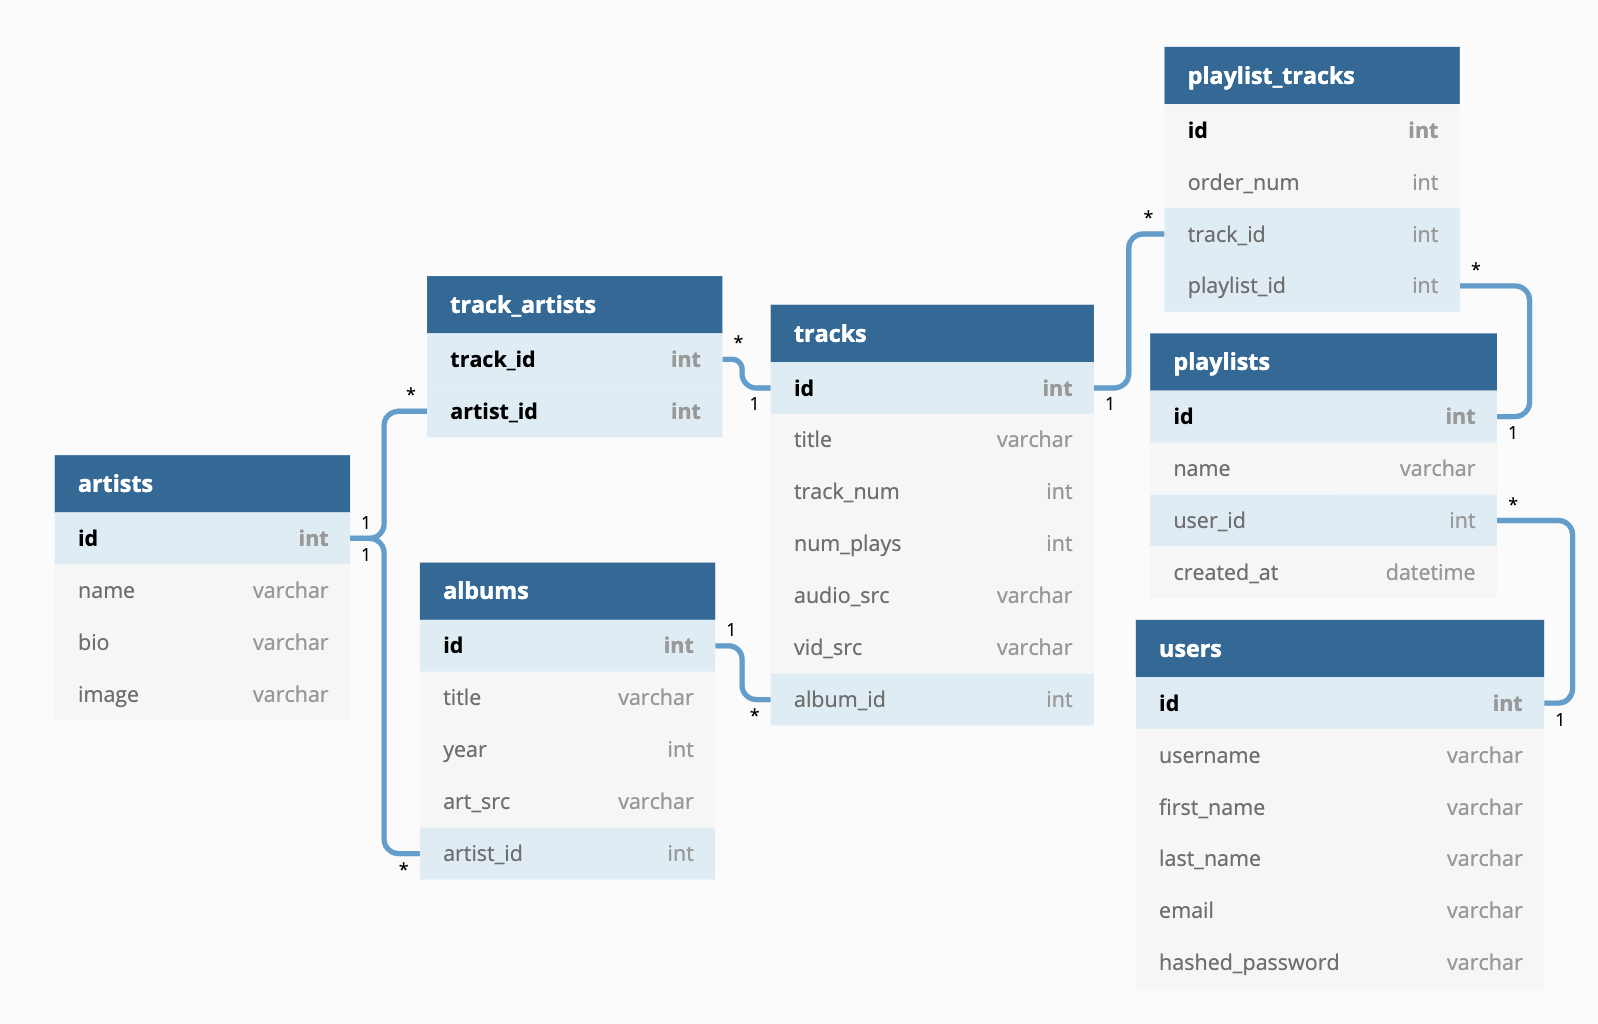
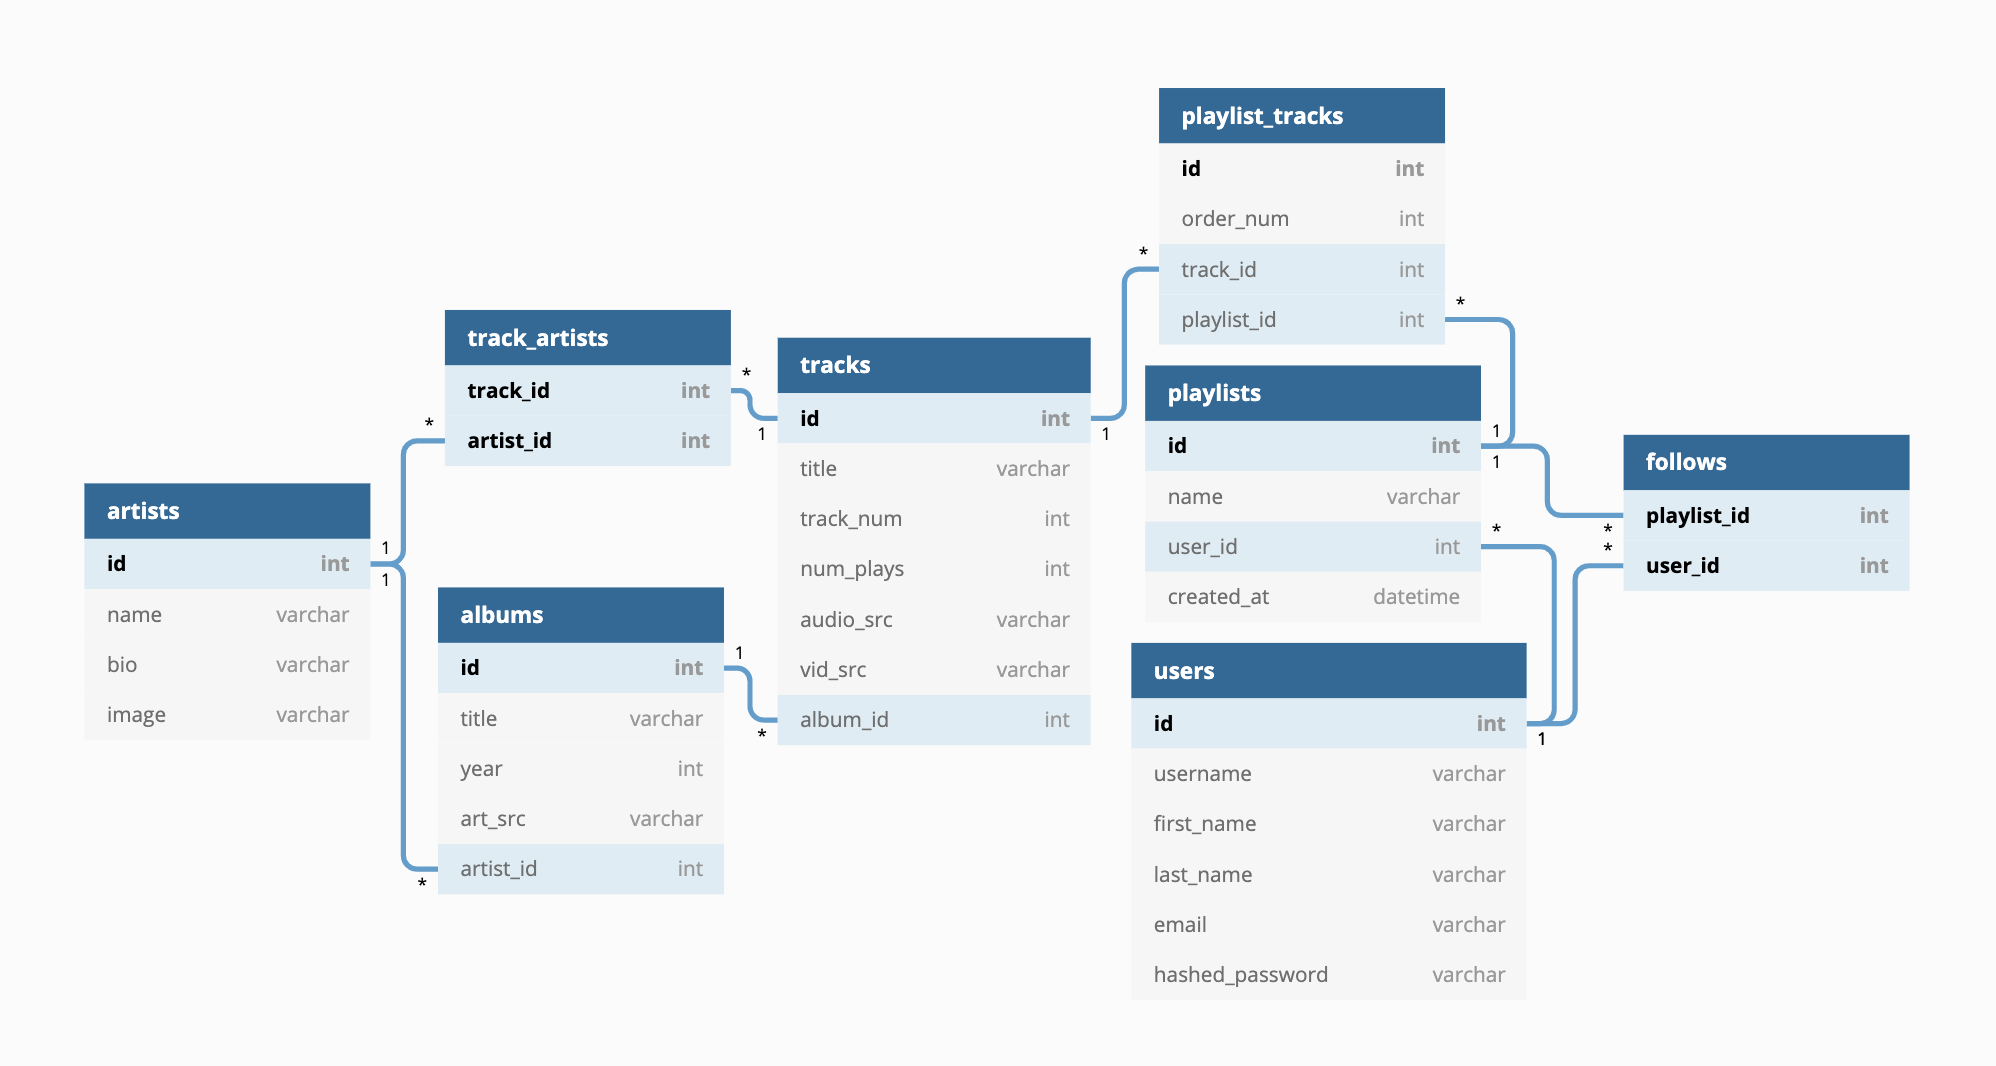
added follows table and remigrated db

diff --git a/app/seeds/tracks_seed2.py b/app/seeds/tracks_seed2.py
@@ -52,13 +52,43 @@ def tracks_seed2():
                album_id=7,
                artists=[Artist.query.get(8)])
 
+  a3435 = Track(title="34+35",
+                track_num=2,
+                num_plays=234505,
+                audio_src="https://vjdj.s3.amazonaws.com/music/ariana-grande/Ariana+Grande+-+34%2B35+(official+video)+(320+kbps).mp3",
+                vid_src="https://www.youtube.com/embed/B6_iQvaIjXw",
+                length="3:40",
+                album_id=8,
+                artists=[Artist.query.get(4)])
+
+  positions = Track(title="positions",
+                    track_num=12,
+                    num_plays=50235,
+                    audio_src="https://vjdj.s3.amazonaws.com/music/ariana-grande/Ariana+Grande+-+positions+(official+video)+(320+kbps).mp3",
+                    vid_src="https://www.youtube.com/embed/tcYodQoapMg",
+                    length="2:57",
+                    album_id=8,
+                    artists=[Artist.query.get(4)])
+
+  break_up = Track(title="break up with your girlfriend, i'm bored",
+                   track_num=12,
+                   num_plays=85783,
+                   audio_src="https://vjdj.s3.amazonaws.com/music/ariana-grande/Ariana+Grande+-+break+up+with+your+girlfriend%2C+i'm+bored+(Official+Video)+(320+kbps).mp3",
+                   vid_src="https://www.youtube.com/embed/LH4Y1ZUUx2g",
+                   length="3:24",
+                   album_id=9,
+                   artists=[Artist.query.get(4)])
+
 
   db.session.add(good_as_hell)
   db.session.add(juice)
   db.session.add(blinding_lights)
   db.session.add(prisoner)
   db.session.add(midnight_sky)
+  db.session.add(a3435)
+  db.session.add(positions)
   db.session.add(up)
+  db.session.add(break_up)
   db.session.commit()
 
 def undo_tracks_seed2():

diff --git a/migrations/versions/20210406_115441_initial_migration.py b/migrations/versions/20210406_115441_initial_migration.py
@@ -1,8 +1,8 @@
-"""remigrating
+"""initial migration
 
-Revision ID: 293498c9a5c4
+Revision ID: f0deea88fc7d
 Revises: 
-Create Date: 2021-04-02 11:36:13.597934
+Create Date: 2021-04-06 11:54:41.039994
 
 """
 from alembic import op
@@ -10,7 +10,7 @@ import sqlalchemy as sa
 
 
 # revision identifiers, used by Alembic.
-revision = '293498c9a5c4'
+revision = 'f0deea88fc7d'
 down_revision = None
 branch_labels = None
 depends_on = None
@@ -53,6 +53,13 @@ def upgrade():
     sa.ForeignKeyConstraint(['user_id'], ['users.id'], ),
     sa.PrimaryKeyConstraint('id')
     )
+    op.create_table('follows',
+    sa.Column('user_id', sa.Integer(), nullable=False),
+    sa.Column('playlist_id', sa.Integer(), nullable=False),
+    sa.ForeignKeyConstraint(['playlist_id'], ['playlists.id'], ),
+    sa.ForeignKeyConstraint(['user_id'], ['users.id'], ),
+    sa.PrimaryKeyConstraint('user_id', 'playlist_id')
+    )
     op.create_table('tracks',
     sa.Column('id', sa.Integer(), nullable=False),
     sa.Column('title', sa.String(), nullable=False),
@@ -89,6 +96,7 @@ def downgrade():
     op.drop_table('track_artists')
     op.drop_table('playlist_tracks')
     op.drop_table('tracks')
+    op.drop_table('follows')
     op.drop_table('playlists')
     op.drop_table('albums')
     op.drop_table('users')

diff --git a/app/seeds/playlist_tracks_seed2.py b/app/seeds/playlist_tracks_seed2.py
@@ -4,7 +4,7 @@ from app.models import db, PlaylistTrack
 def playlist_tracks_seed2():
   track1 = PlaylistTrack(order_num=1, track_id=13, playlist_id=2)
   track2 = PlaylistTrack(order_num=2, track_id=9, playlist_id=2)
-  track3 = PlaylistTrack(order_num=3, track_id=3, playlist_id=2)
+  track3 = PlaylistTrack(order_num=3, track_id=14, playlist_id=2)
   track4 = PlaylistTrack(order_num=4, track_id=5, playlist_id=2)
   track5 = PlaylistTrack(order_num=5, track_id=10, playlist_id=2)
   track6 = PlaylistTrack(order_num=6, track_id=7, playlist_id=2)
@@ -13,6 +13,11 @@ def playlist_tracks_seed2():
   track8 = PlaylistTrack(order_num=1, track_id=11, playlist_id=3)
   track9 = PlaylistTrack(order_num=2, track_id=2, playlist_id=3)
   track10 = PlaylistTrack(order_num=3, track_id=8, playlist_id=3)
+
+  track11 = PlaylistTrack(order_num=1, track_id=3, playlist_id=4)
+  track12 = PlaylistTrack(order_num=2, track_id=5, playlist_id=4)
+  track13 = PlaylistTrack(order_num=3, track_id=14, playlist_id=4)
+  track14 = PlaylistTrack(order_num=4, track_id=9, playlist_id=4)
 
   db.session.add(track1)
   db.session.add(track2)

diff --git a/app/seeds/playlists_seed2.py b/app/seeds/playlists_seed2.py
@@ -1,18 +1,26 @@
-from app.models import db, Track, Playlist
+from app.models import db, Track, Playlist, User
 from datetime import datetime
 
 
 def playlists_seed2():
   pl2 = Playlist(name="Let's Partayyy",
                  user_id=1,
-                 created_at=(datetime.now()))
+                 created_at=(datetime.now()),
+                 user_follows=[User.query.get(2), User.query.get(3), User.query.get(4)])
 
   pl3 = Playlist(name="She's a VJDJ",
                  user_id=1,
-                 created_at=(datetime.now()))
+                 created_at=(datetime.now()),
+                 user_follows=[User.query.get(5), User.query.get(6)])
+
+  pl4 = Playlist(name="Yas Qween",
+                 user_id=2,
+                 created_at=(datetime.now()),
+                 user_follows=[User.query.get(1), User.query.get(3), User.query.get(8)])
 
   db.session.add(pl2)
   db.session.add(pl3)
+  db.session.add(pl4)
   db.session.commit()
 
 

diff --git a/app/models/user.py b/app/models/user.py
@@ -2,6 +2,13 @@ from .db import db
 from werkzeug.security import generate_password_hash, check_password_hash
 from flask_login import UserMixin
 
+follows = db.Table(
+  'follows',
+  db.Model.metadata,
+  db.Column('user_id', db.Integer, db.ForeignKey('users.id'), primary_key=True),
+  db.Column('playlist_id', db.Integer, db.ForeignKey('playlists.id'), primary_key=True),
+)
+
 class User(db.Model, UserMixin):
   __tablename__ = 'users'
 
@@ -13,6 +20,7 @@ class User(db.Model, UserMixin):
   hashed_password = db.Column(db.String(255), nullable = False)
 
   playlists = db.relationship('Playlist', back_populates='user')
+  pl_follows = db.relationship('Playlist', secondary=follows, back_populates='user_follows')
 
   @property
   def password(self):

diff --git a/app/seeds/albums_seed2.py b/app/seeds/albums_seed2.py
@@ -18,11 +18,21 @@ def albums_seed2():
                      year=2021,
                      art_src="/static/album-art/up.jpeg",
                      artist_id=8)
+  positions = Album(title="positions",
+                    year=2020,
+                    art_src="/static/album-art/positions.png",
+                    artist_id=4)
+  thankunext = Album(title="thank u, next",
+                     year=2019,
+                     art_src="/static/album-art/thank-u-next.jpeg",
+                     artist_id=4)
 
   db.session.add(cuz_i_love_you)
   db.session.add(after_hours)
   db.session.add(plastic_hearts)
   db.session.add(up)
+  db.session.add(positions)
+  db.session.add(thankunext)
   db.session.commit()
 
 def undo_albums_seed2():

diff --git a/app/models/playlist.py b/app/models/playlist.py
@@ -1,5 +1,5 @@
 from .db import db
-
+from .user import follows
 
 class Playlist(db.Model):
   __tablename__ = 'playlists'
@@ -11,6 +11,7 @@ class Playlist(db.Model):
 
   user = db.relationship('User', back_populates='playlists')
   tracks = db.relationship('PlaylistTrack', back_populates='playlist')
+  user_follows = db.relationship('User', secondary=follows, back_populates='pl_follows')
 
   def to_dict(self):
     return {
